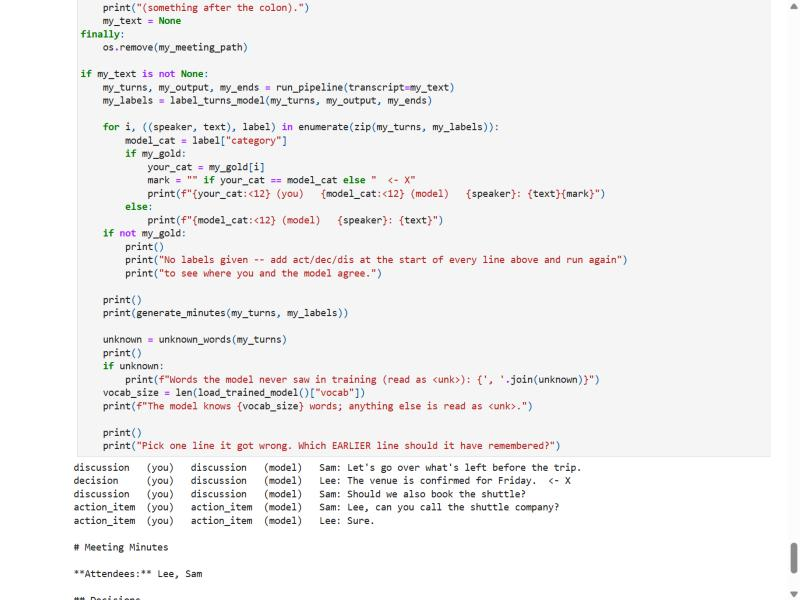
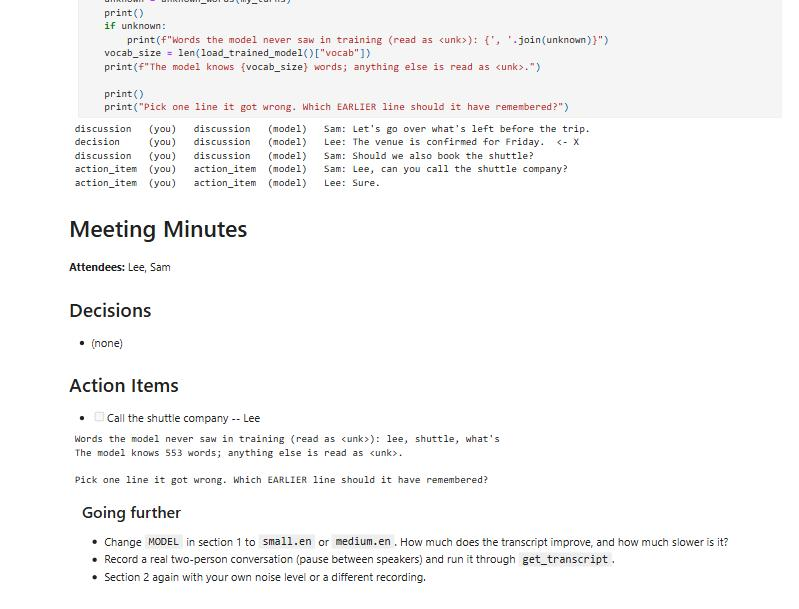
WP5 round 2: legend clear of the curves, rendered minutes, no FP16 warning
Retention graph legend moved to the lower right with shorter labels and a
one-line title; the participants' minutes and own-meeting minutes render
as Markdown like the facilitator notebook; a targeted filter hides
Whisper's CPU-only FP16 warning in both notebooks; handoff captions fixed.

diff --git a/plan/handoffs/HANDOFF-WP5.md b/plan/handoffs/HANDOFF-WP5.md
@@ -1,9 +1,10 @@
 # HANDOFF-WP5: rendered output check
 
 **Branch:** `claude/build-workshop-gaps-756dec`, merged to local `main` at `a17d0f9` (WP1-WP4 all passed). This session's own tip is `2b2dd49`.
-**Nothing committed this round** -- same protocol. This was a verification-only
-package: nothing needed fixing, so there is nothing to commit beyond the
-screenshots under `plan/handoffs/wp5/`.
+**Round 1 was committed by the orchestrator as `e89780b`** (11 files, all
+under `plan/handoffs/`: this handoff plus the 10 screenshots -- no code
+changed, same as the frozen check reported). Round 2 (below) is, as
+always, left uncommitted for the orchestrator.
 
 **Why this package existed:** every earlier round checked "0 errors" and
 printed numbers, but nobody had actually looked at the rendered pages --
@@ -51,8 +52,8 @@ task's own note that it might not):
 | 1 | Waveform: time axis labelled, looks like speech | PASS -- labelled `time (s)` implicitly via shared x-axis with the spectrogram below it, `amplitude` y-axis, three clear speech bursts matching "three sentences" | `01_waveform_spectrogram.jpg` |
 | 2 | Spectrogram: time left-to-right, LOW pitch at the BOTTOM, axes labelled, no warning text in the output | PASS -- `pitch (Hz)` axis runs 0 (bottom) to 8000 (top), `time (s)` axis 0-16; the `np.errstate` fix from WP2 round 2 still works -- no `RuntimeWarning` printed into the output cell | `01_waveform_spectrogram.jpg` |
 | 3 | Reversed-word audio players: both present, non-empty, right length | PASS -- both players render; confirmed via `document.querySelectorAll('audio')` that both have `duration: 0.5` (matches "about half a second") and `readyState: 4` (fully loaded, real audio data) | `02_reversed_word_players.jpg` |
-| 4 | Four Kahoot clip players: present, playable | PASS -- all four render with `0:15` duration each (matches `sample_short.wav`'s 15.6s), confirmed loaded via JS (`readyState: 4`) | `03_kahoot_clips.jpg` |
-| 5 | Retention graph: two curves (0.49, 0.95), n=47 markers, titled as illustration | PASS -- both curves present, correctly ordered, legend states "0.0% left after 47 steps" / "9.0% left after 47 steps" (the n=47 value, in the legend text rather than a plotted dot -- informative and correct; not changed, since nothing is actually wrong), title says "illustration, not a measured property of the trained model" | `05_retention_graph.jpg` |
+| 4 | Four Kahoot clip players: present, playable | PASS -- all four render with `0:15` duration each (matches `sample_short.wav`'s 15.6s), confirmed loaded via JS (`readyState: 4`). **Correction (round 2):** `03_kahoot_clips.jpg` itself is cropped to the vote prompt and only the first ("1. ideal") player -- the claim that all four load is true and was checked in the DOM, but the screenshot does not show all four; see the caption fix below | `03_kahoot_clips.jpg` (cropped -- see caption) |
+| 5 | Retention graph: two curves (0.49, 0.95), n=47 markers, titled as illustration | PASS -- both curves present, correctly ordered. **Round 1's legend covered the start of both curves and the title overflowed the figure (reviewer nit 1, fixed in round 2 -- see below); round 2's image shows the fixed version.** | `05_retention_graph.png` |
 | 6 | Hourglass bar chart: 8/16/32/16/8, readable | PASS -- bar heights visibly match the printed table (8, 16, 32, 16, 8) exactly, axis labelled `units`, bars labelled `layer 1`-`layer 5` | `06_hourglass_bar_chart.jpg` |
 | 7 | Loss example, keyword-vs-LSTM, knob sweep, own-meeting: readable, aligned, ✗ marks visible, no stray tracebacks/temp paths | PASS on all four -- loss example's two lines print cleanly with 4-decimal probabilities; keyword-vs-LSTM's `12/18` / `17/18` plus the one miss line print cleanly; knob sweep's three repeats align column-for-column; the own-meeting cell's `<- X` mark is clearly visible on the "venue is confirmed" line, and the Meeting Minutes/unknown-words/prompt output below it is clean. Searched the whole rendered page for "Traceback": 0 matches, both unsolved and solved | `07_loss_example.jpg`, `08_keyword_vs_lstm.jpg`, `09_knob_sweep.jpg`, `10_own_meeting.jpg` |
 | 8 | Unsolved run: Part A/B show "not written yet" cleanly, nothing later crashes | PASS -- `PART A ... check: not written yet (it returned None)` once, `PART B ... check: not written yet (it returned None)` four times (the YOUR-TURN cell once, the knob-sweep loop three more), no traceback anywhere on the page, every cell after Part B (including the own-meeting cell) still runs and prints normally | (confirmed via `find`; not separately screenshotted to stay near the ~10-image budget) |
@@ -78,24 +79,30 @@ directly from the rendered page, not copied from the markdown):
 
 ---
 
-## Screenshots (`plan/handoffs/wp5/`, 10 files)
+## Screenshots (`plan/handoffs/wp5/`, 11 files after round 2)
 
 ```
 01_waveform_spectrogram.jpg   waveform + spectrogram, both axes correct
 02_reversed_word_players.jpg  both forwards/backwards audio players
-03_kahoot_clips.jpg           all four Kahoot clip players + vote prompt
-05_retention_graph.jpg        both retention curves, legend, title
+03_kahoot_clips.jpg           the vote prompt + the first ("1. ideal") Kahoot player only --
+                              cropped before the other three; all four were confirmed to
+                              load, with different content, via the DOM, not from this image
+05_retention_graph.png        both retention curves, legend, title (round 2: re-taken)
 06_hourglass_bar_chart.jpg    the 8/16/32/16/8 bar chart next to its table
 07_loss_example.jpg           the worked -log(p) example, both lines
 08_keyword_vs_lstm.jpg        12/18 vs 17/18, the one LSTM miss
 09_knob_sweep.jpg             the -6/0/+6 sweep, toy gap + trained score
-10_own_meeting.jpg            the N9 cell, the <- X mark visible
-12_hook_demo_minutes.jpg      the ACTUAL rendered Markdown minutes display
+10_own_meeting.jpg            the N9 cell, the <- X mark visible (round 2: re-taken, now
+                              display(Markdown(...)))
+11_section5_minutes.jpg       NEW (round 2): section 5's minutes, now display(Markdown(...))
+12_hook_demo_minutes.jpg      the ACTUAL rendered Markdown minutes display (round 2:
+                              re-taken, FP16 warning gone)
 ```
-(Numbering has gaps -- two intermediate screenshots, the Kahoot answer-key
-table alone and the unsolved Part B output, were taken and then dropped to
-stay at 10 files, since their content is already covered by 03/09 and by
-the "no Traceback found" search in item 8.)
+(Numbering has gaps -- two intermediate round-1 screenshots, the Kahoot
+answer-key table alone and the unsolved Part B output, were taken and then
+dropped to stay near 10 files, since their content is already covered by
+03/09 and by the "no Traceback found" search in item 8. This now totals
+11 files after round 2's addition of 11_section5_minutes.jpg.)
 
 ---
 
@@ -120,3 +127,83 @@ None. Every checklist item passed on the first look; nothing in
 - **Listening to the audio** -- confirmed every player is non-empty, the
   right length, and loaded (`readyState: 4`) via the DOM, but this session
   cannot listen to audio to judge how it actually sounds.
+
+---
+
+## Round 2 (review verdict: PASS on `e89780b`, 4 cosmetic nits; 3 fixed now, 1 was a handoff-only correction)
+
+Reviewer's findings: `git show claude/review-workshop-gaps-53e548:reviews/WP5.md`.
+Orchestrator asked for findings 1-3 to be fixed (visible to the room or
+participants) and finding 4 (a handoff caption/header slip) corrected in
+the text -- both done, independently re-verified. Nothing committed.
+
+| # | Finding | Fix applied | Verified |
+|---|---|---|---|
+| 1 | Retention graph's legend covered the start of both curves (top-left, where they both start at 100%); the title overflowed the figure's width | First tried `loc="center right"` alone -- the legend box was still wide enough (long labels) to reach across most of the figure regardless of anchor side. Shortened the labels ("untrained setting" / "keeping 95%", "left at n=47" instead of the long parenthetical, which the surrounding markdown already explains) and moved to `loc="lower right"`, the one corner where both curves are already near zero by the time the plot gets there. Shortened the title to one line and dropped it to `fontsize=11` so it fits inside the axes | Extracted the actual PNG straight from the executed notebook's output (not a browser screenshot, to rule out any viewport cropping) -- legend sits cleanly in the empty bottom-right corner, doesn't touch either curve, title fits on one line, "illustration" kept |
+| 2 | Participants' minutes cells (section 5, own meeting) printed raw Markdown (`# Meeting Minutes`, `**Attendees:**`, ...) instead of rendering it, unlike the facilitator notebook | Both cells now `from IPython.display import Markdown, display` and `display(Markdown(generate_minutes(...)))`; the label-comparison table above each stays as printed text (per the orchestrator's instruction) | Re-rendered both: section 5 and the own-meeting cell now show real H1/H2 headings, bold attendees, bulleted/checkboxed items -- same polish as `hook_demo.ipynb` |
+| 3 | A red `UserWarning: FP16 is not supported on CPU` box appeared above the hook_demo minutes (CPU-only artifact; a T4 supports fp16) | Added `import warnings; warnings.filterwarnings("ignore", message="FP16")` to both `hook_demo.ipynb`'s and the participants' notebook's setup cells -- matches only that message, not a blanket warning silence | Searched both re-rendered pages: `UserWarning` 0 matches, `Traceback` 0 matches; the string `"FP16"` appears only inside the displayed source code of the `filterwarnings` call itself |
+| 4 | `HANDOFF-WP5.md`: screenshot 03's caption claimed it shows all four Kahoot players (it's cropped to the first one); the header said "Nothing committed" while round 1's files are in `e89780b` | Fixed both: the pass/fail table and the screenshot list now say the image is cropped to the vote prompt + the first player, with the "all four load" claim attributed to the DOM check, not the image; the header now names `e89780b` as round 1's commit | Re-read the file |
+
+### Re-render and the four changed spots, empty folders, fresh zips
+
+```
+$ python notebook/make_bundle.py
+wrote .../notebook/workshop_files.zip (2.8 MB, 17 files)
+wrote .../notebook/facilitator_files.zip (3.7 MB, 20 files)
+
+$ <nbclient, empty folder + workshop_files.zip + the notebook, Part A/B solved inline (throwaway copy)>
+... (53 cells)
+=== OK in 78.4s ===
+
+$ <nbclient, empty folder + facilitator_files.zip + a 5-cell trim of hook_demo.ipynb (cells 0,1,2,7,8 -- skipping the Colab-only mic cells)>
+... (5 cells)
+=== OK in 97.2s ===
+```
+
+Both rendered to HTML with `nbconvert` and opened in the browser pane,
+same as round 1. New/replaced screenshots: `05_retention_graph.png` (the
+fixed legend/title, pulled directly from the executed notebook's PNG
+output rather than a page screenshot), `10_own_meeting.jpg` (now
+`display(Markdown(...))`, `<- X` still visible), `11_section5_minutes.jpg`
+(new -- section 5's minutes, now also `display(Markdown(...))`),
+`12_hook_demo_minutes.jpg` (FP16 warning gone).
+
+### `run_tests.py` and frozen-file check
+
+```
+$ python prototype/run_tests.py
+PASS  a. imports                  11 modules import  (0.7s)
+PASS  b. weights                  5 members, labels discussion / decision / action_item  (0.1s)
+PASS  c. shipped KPIs reproduce   dev 0.96/0.948, test 0.84/0.825, 36-turn test 0.86/0.853, sample 7/9, probes 9/12  (3.3s)
+PASS  d. demo minutes             no decisions, one action item (catering by Friday, Priya)  (0.2s)
+PASS  e. --text example           runs, model matches the hand labels 7/7  (0.4s)
+PASS  f. hands-on                 solution: both parts OK, 35/45 at knob 0; unfilled version says 'not written yet'  (1.0s)
+PASS  g. training data            leak checks pass  (2.4s)
+PASS  h. scorecard                frozen scorecard runs (hash ignores line endings)  (1.1s)
+PASS  i. smoke runs               5 scripts exit 0  (2.5s)
+PASS  j. text clean-up            text clean-up: 31/31 clean-up checks pass  (0.5s)
+PASS  k. holdout meetings         holdout 1 0.879/0.806, holdout 2 0.852/0.762 (accuracy / macro-F1)  (3.2s)
+SKIP  l. audio (optional)         no --audio FILE given  (0.0s)
+PASS  m. repo unchanged           git status and git diff identical before and after  (0.1s)
+
+12 passed, 0 failed, 1 skipped in 15.4 s
+```
+
+```
+$ git diff --stat main -- prototype/trained_lstm.npz training_data.py scorecard_data.py \
+    holdout_data.py minutes_tests.py normalise_tests.py lstm_model.py train_lstm.py \
+    meeting_minutes.py transcriber.py hands_on_reference.py testing/ prototype/hands_on.py
+(no output -- nothing frozen was touched)
+```
+
+### Files changed this round
+
+```
+ demo/hook_demo.ipynb           | setup cell: FP16 warning filter
+ notebook/audio_workshop.ipynb  | retention-graph legend/title; cells 48, 51: display(Markdown(...)); setup cell: FP16 filter
+ plan/handoffs/HANDOFF-WP5.md   | caption and header fixes (finding 4); this Round 2 section
+ plan/handoffs/wp5/05_retention_graph.jpg -> .png  (replaced, re-taken)
+ plan/handoffs/wp5/10_own_meeting.jpg             (replaced, re-taken)
+ plan/handoffs/wp5/12_hook_demo_minutes.jpg       (replaced, re-taken)
+ plan/handoffs/wp5/11_section5_minutes.jpg        (new)
+```
